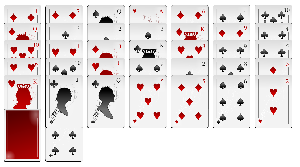
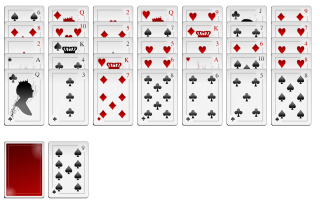
*Smoooth*
git-svn-id: svn+ssh://svn.kde.org/home/kde/trunk/KDE/kdegames@866210 283d02a7-25f6-0310-bc7c-ecb5cbfe19da

diff --git a/kpat/pwidget.cpp b/kpat/pwidget.cpp
@@ -132,7 +132,8 @@ pWidget::pWidget()
 
     a = actionCollection()->addAction("snapshot");
     connect( a, SIGNAL( triggered( bool ) ), SLOT( slotSnapshot() ) );
-    //a->setShortcuts( KShortcut( Qt::Key_F8 ) );
+    if (getenv("KDE_DEBUG")) // developer shortcut
+       a->setShortcuts( KShortcut( Qt::Key_F8 ) );
 
     a = actionCollection()->addAction("select_deck");
     a->setText(i18n("Select Deck..."));
@@ -550,7 +551,7 @@ void pWidget::slotSnapshot2()
     QImage img = QImage( dill->size(), QImage::Format_ARGB32 );
     img.fill( qRgba( 0, 0, 255, 0 ) );
     dill->dscene()->createDump( &img );
-    img = img.scaled( 300, 300, Qt::KeepAspectRatio );
+    img = img.scaled( 320, 320, Qt::KeepAspectRatio, Qt::SmoothTransformation );
     img.save( QString( "out_%1.png" ).arg( dill->dscene()->gameId() ) );
     if ( m_dealer_it != m_dealer_map.end() )
         QTimer::singleShot( 200, this, SLOT( slotSnapshot() ) );
